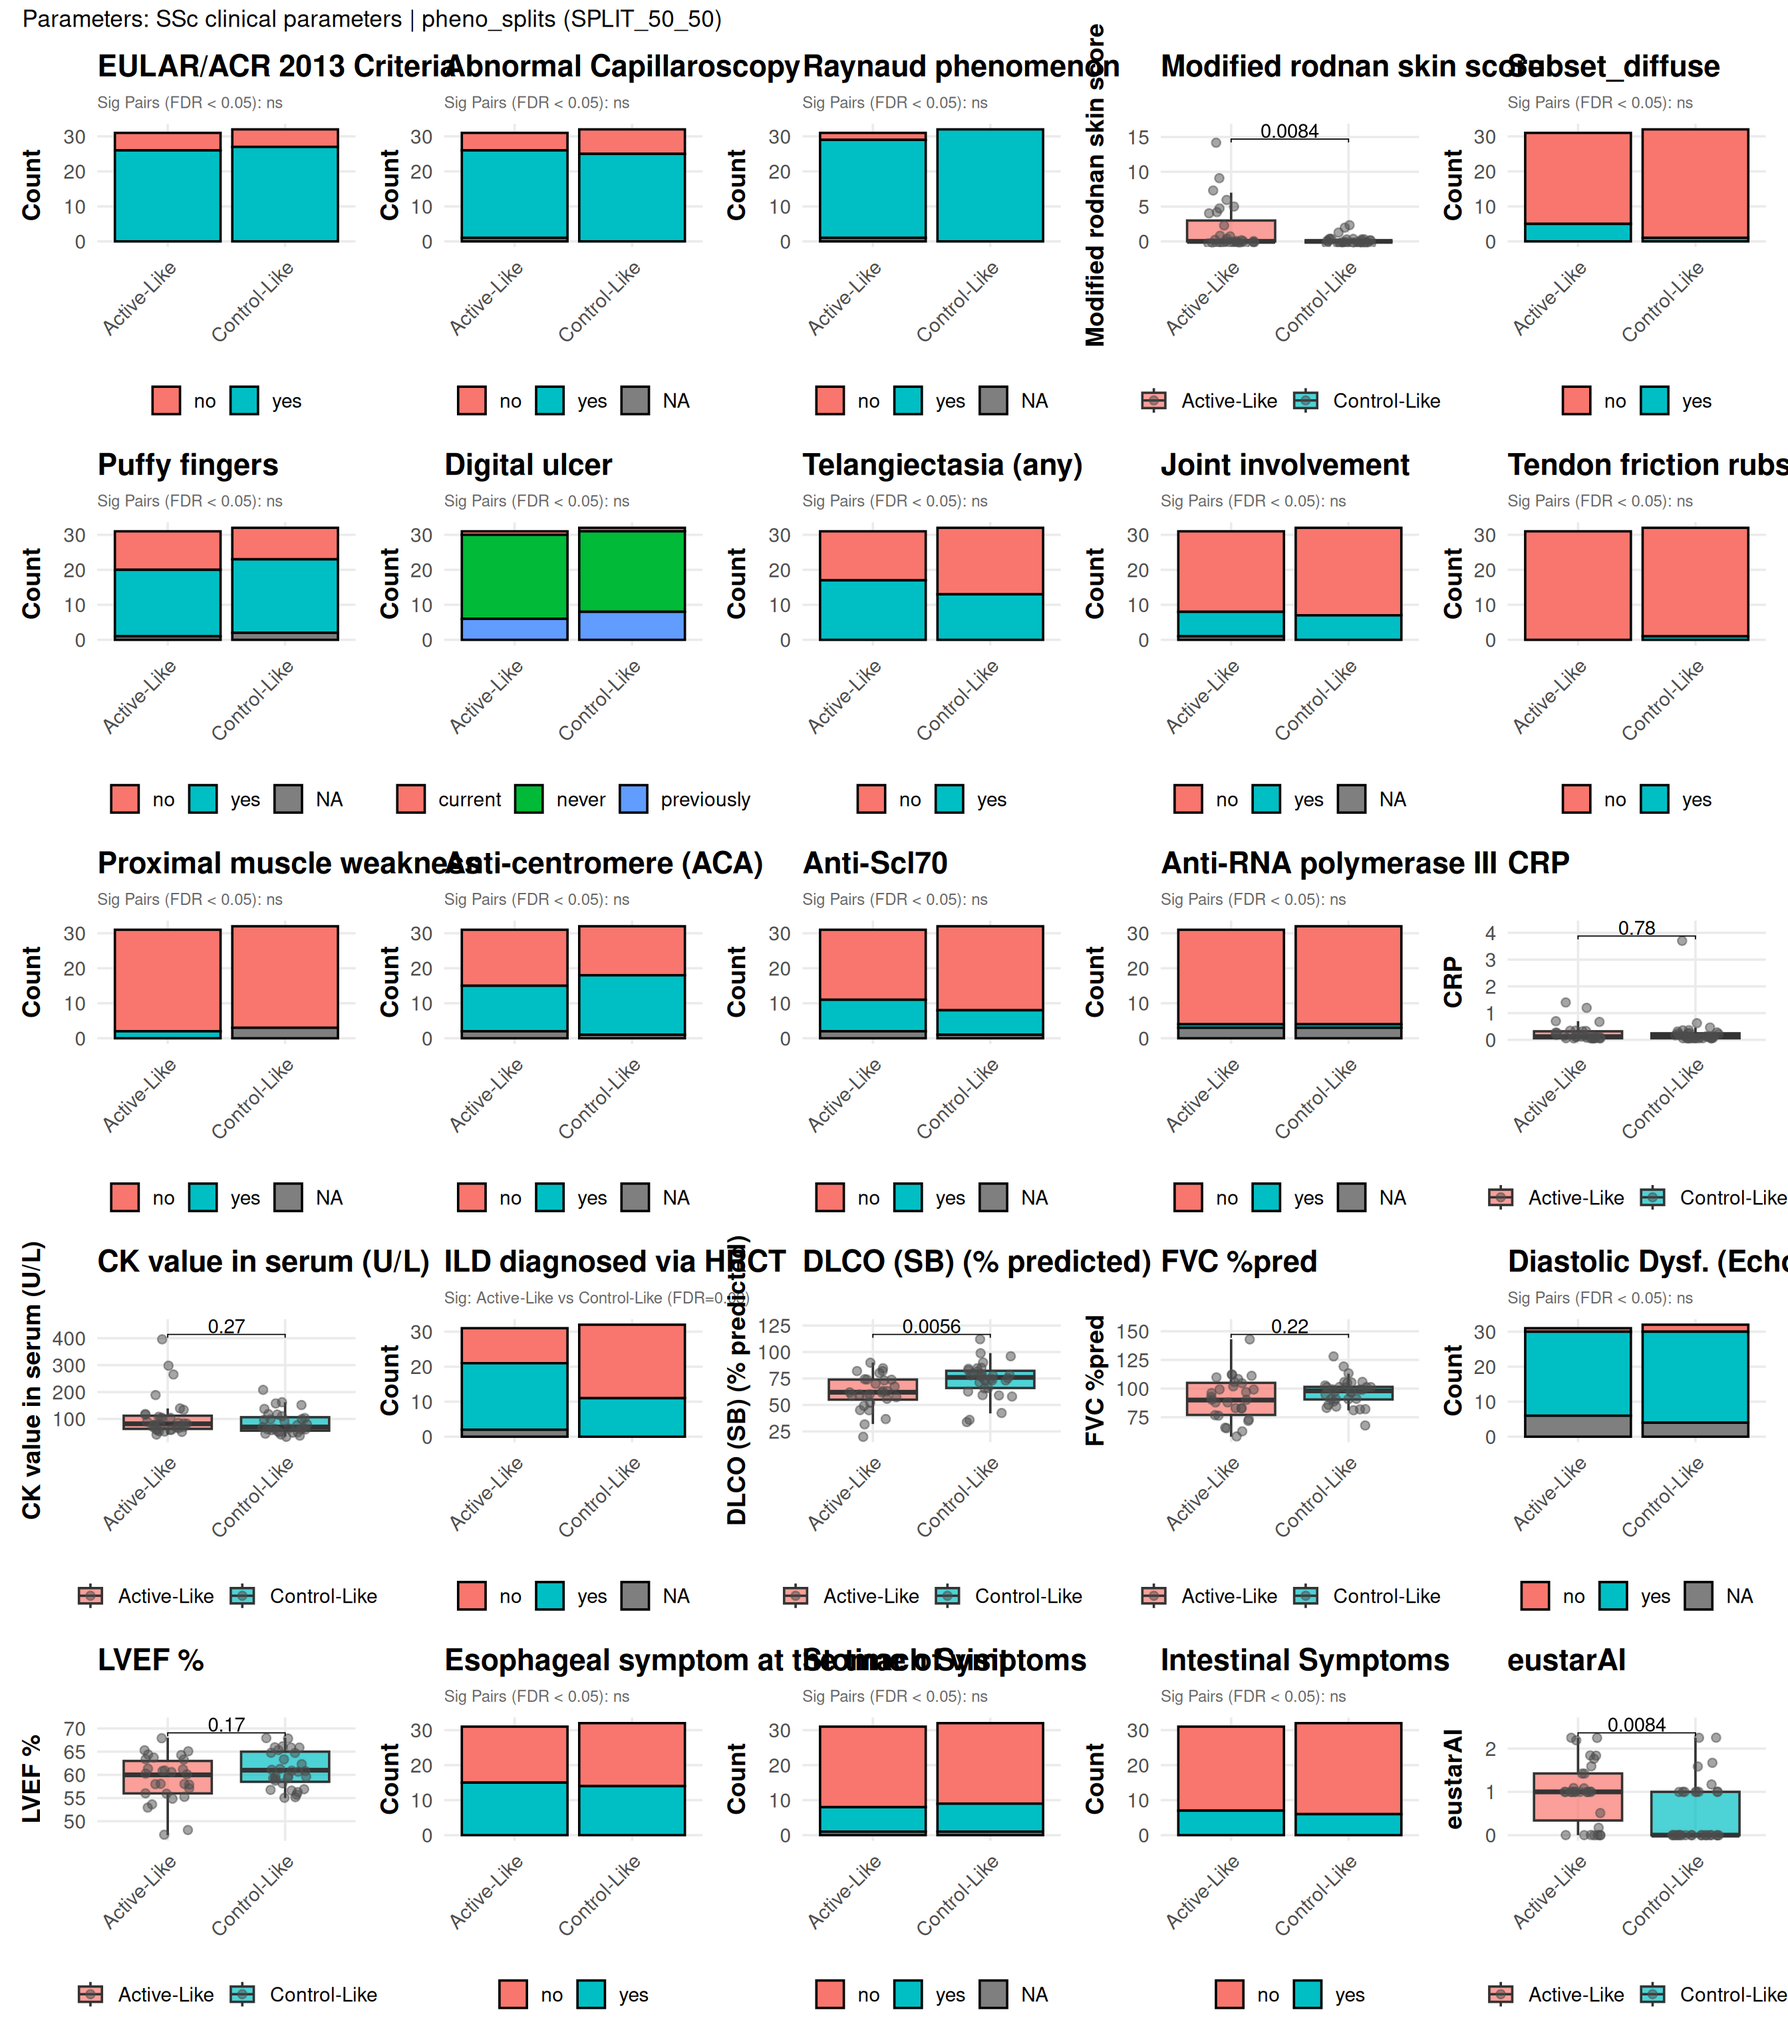
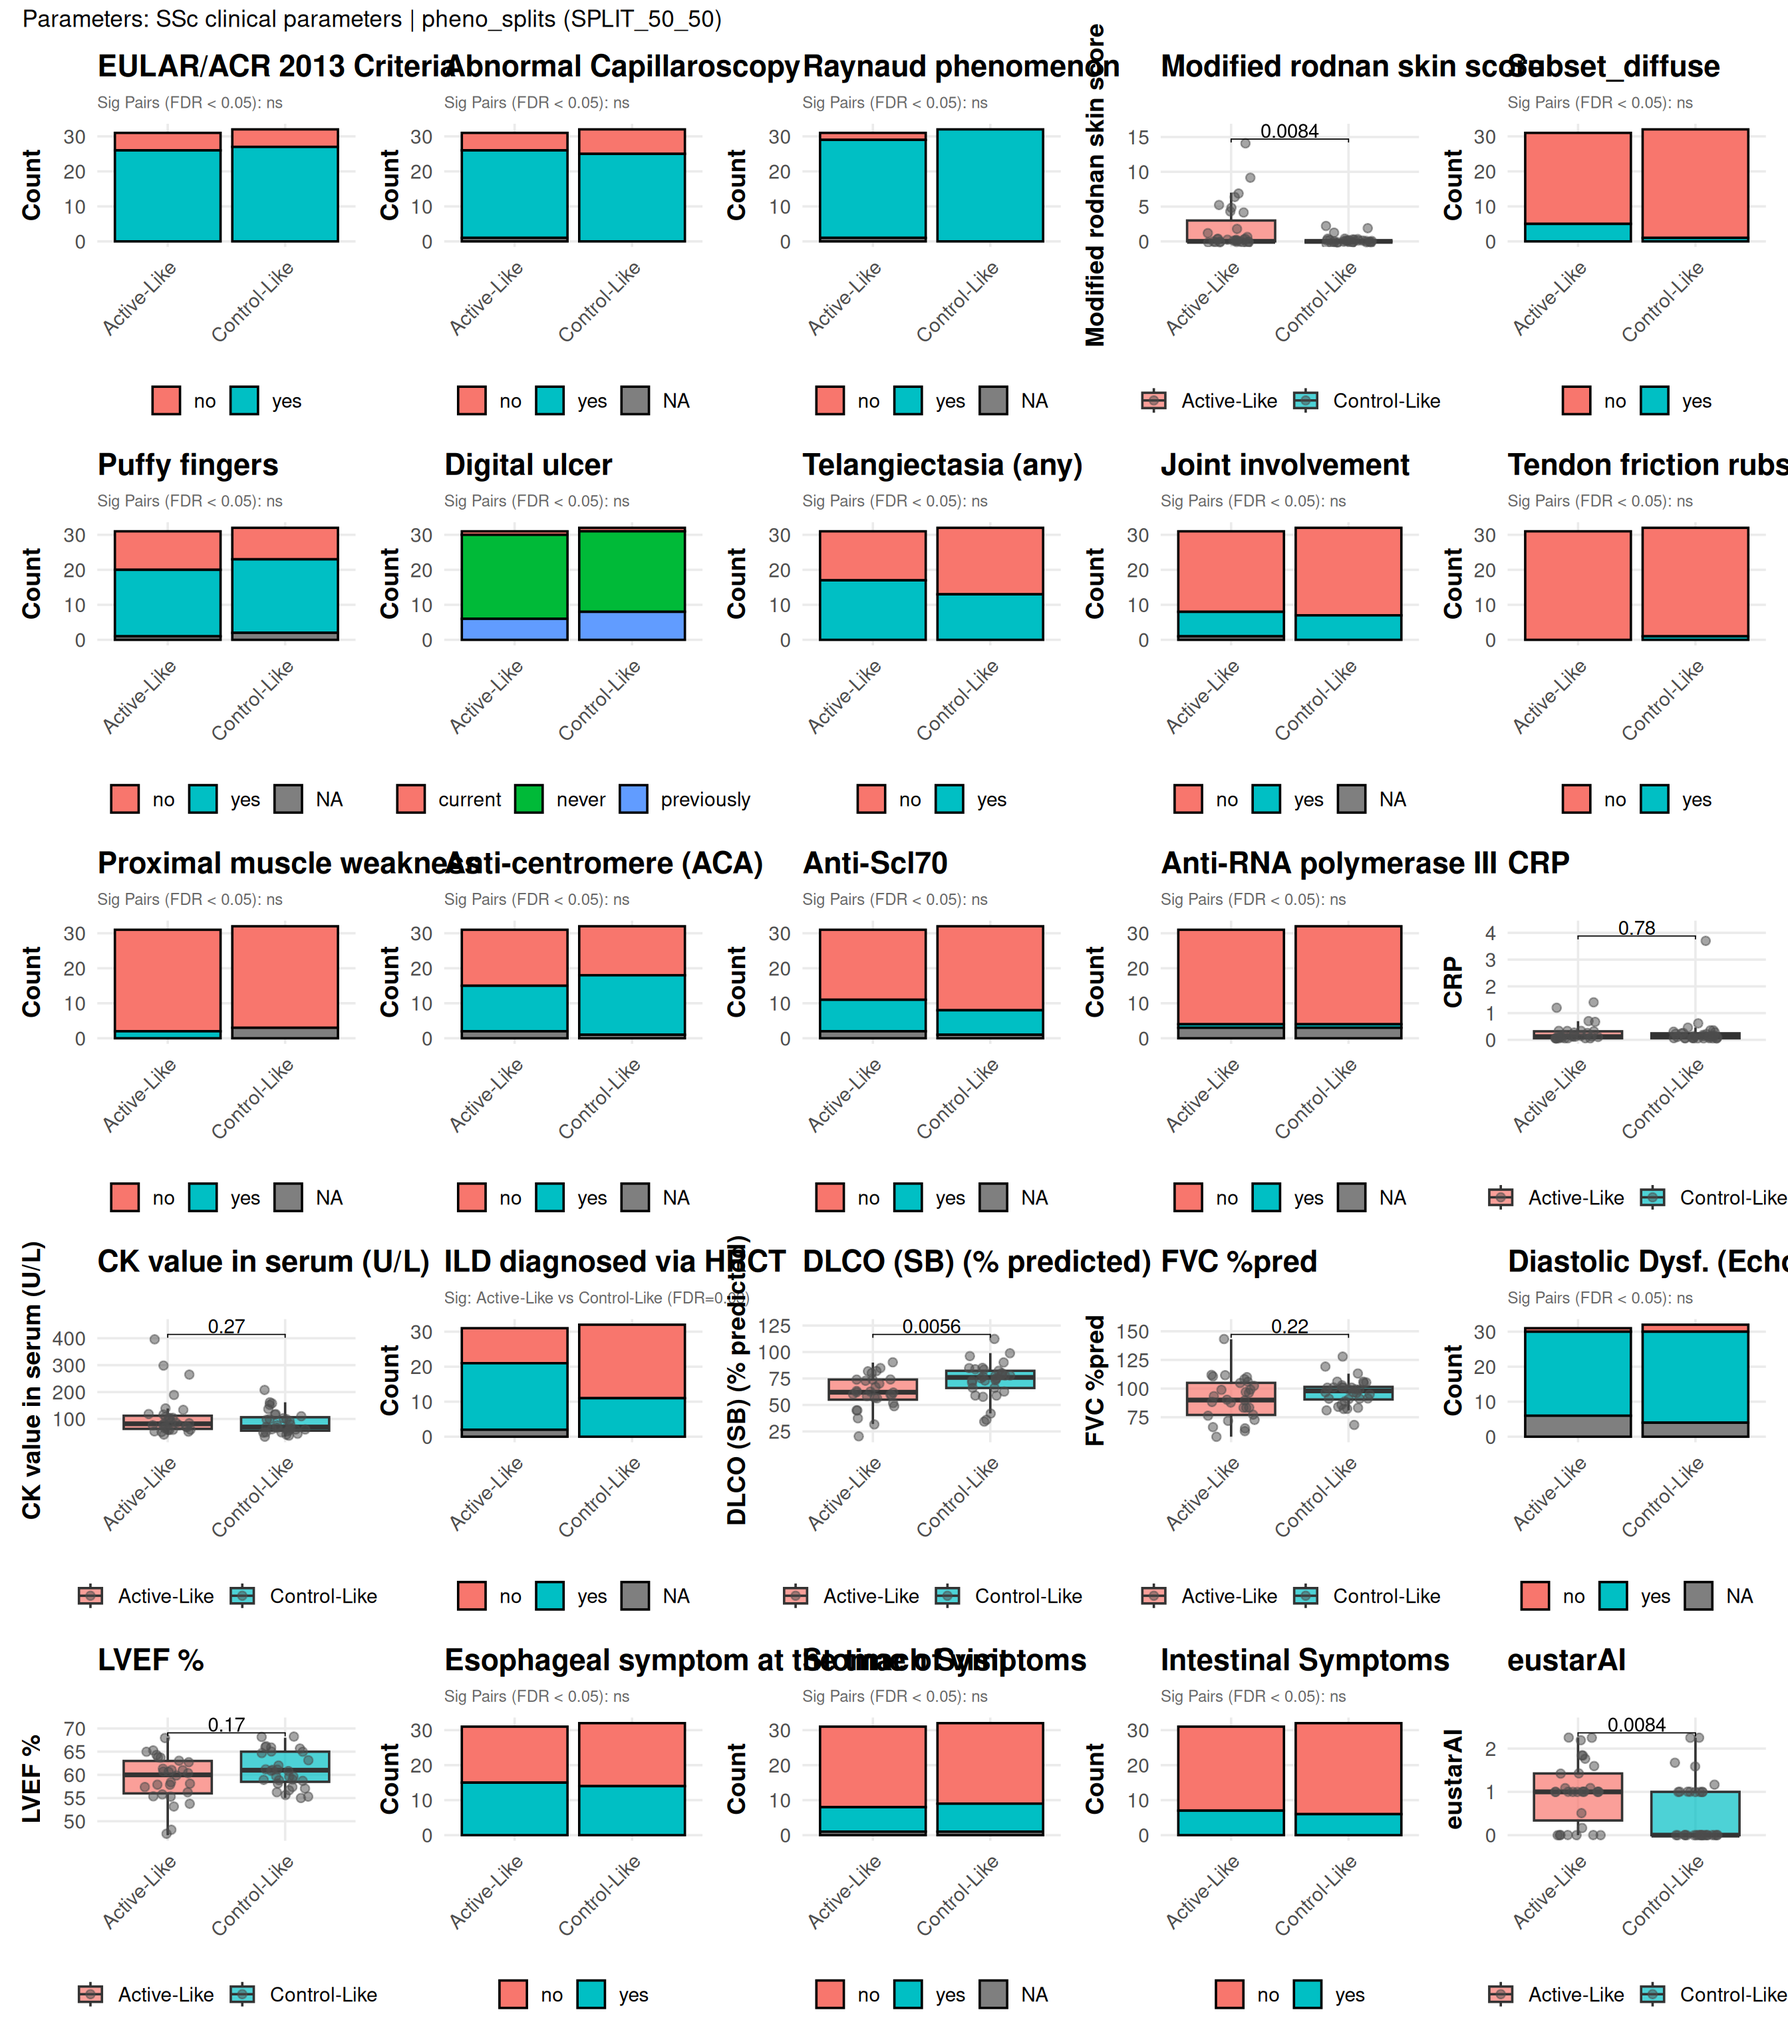
Build site.

diff --git a/docs/03d_proteomics_subgroups.html b/docs/03d_proteomics_subgroups.html
@@ -670,15 +670,15 @@ project makes it easier to run your code on other machines.</p>
 <div class="panel panel-default">
 <div class="panel-heading">
 <p class="panel-title">
-<a data-toggle="collapse" data-parent="#workflowr-checks" href="#strongRepositoryversionstrongahrefhttpsgithubcomalexandergysinSScUSZtree40c259e4947e34af281b3b5303140aef716f5958targetblank40c259ea">
+<a data-toggle="collapse" data-parent="#workflowr-checks" href="#strongRepositoryversionstrongahrefhttpsgithubcomalexandergysinSScUSZtreedf14753758acaeb9afdc77efbf007ad72d7a6344targetblankdf14753a">
 <span class="glyphicon glyphicon-ok text-success"
 aria-hidden="true"></span> <strong>Repository version:</strong>
-<a href="https://github.com/alexander-gysin/SSc-USZ/tree/40c259e4947e34af281b3b5303140aef716f5958" target="_blank">40c259e</a>
+<a href="https://github.com/alexander-gysin/SSc-USZ/tree/df14753758acaeb9afdc77efbf007ad72d7a6344" target="_blank">df14753</a>
 </a>
 </p>
 </div>
 <div
[2 lines of base64/hex data omitted]
 class="panel-collapse collapse">
 <div class="panel-body">
 <p>
@@ -688,7 +688,7 @@ reproducibility.
 </p>
 <p>
 The results in this page were generated with repository version
-<a href="https://github.com/alexander-gysin/SSc-USZ/tree/40c259e4947e34af281b3b5303140aef716f5958" target="_blank">40c259e</a>.
+<a href="https://github.com/alexander-gysin/SSc-USZ/tree/df14753758acaeb9afdc77efbf007ad72d7a6344" target="_blank">df14753</a>.
 See the <em>Past versions</em> tab to see a history of the changes made
 to the R Markdown and HTML files.
 </p>
@@ -737,7 +737,7 @@ Untracked files:
     Untracked:  analysis/05d_sRNA_differential.Rmd
 
 Unstaged changes:
-    Modified:   code/00_config.R
+    Modified:   code/02_proteomics_engines.R
 
 </code></pre>
 <p>
@@ -783,6 +783,40 @@ Message
 </tr>
 </thead>
 <tbody>
+<tr>
+<td>
+Rmd
+</td>
+<td>
+<a href="https://github.com/alexander-gysin/SSc-USZ/blob/df14753758acaeb9afdc77efbf007ad72d7a6344/analysis/03d_proteomics_subgroups.Rmd" target="_blank">df14753</a>
+</td>
+<td>
+alexander-gysin
+</td>
+<td>
+2026-08-16
+</td>
+<td>
+added eustar colors, corrected the description boxes
+</td>
+</tr>
+<tr>
+<td>
+html
+</td>
+<td>
+<a href="https://rawcdn.githack.com/alexander-gysin/SSc-USZ/38402ad7e73ad31188e39d57c4bc9484b78a2ea9/docs/03d_proteomics_subgroups.html" target="_blank">38402ad</a>
+</td>
+<td>
+alexander-gysin
+</td>
+<td>
+2026-08-16
+</td>
+<td>
+Build site.
+</td>
+</tr>
 <tr>
 <td>
 Rmd
@@ -1402,8 +1436,8 @@ pathway_dbs &lt;- list(
 <strong>What this code does:</strong>
 <ul>
 <li>
-Established highly parameterized lists controlling heatmap extraction,
-subgroup quantiles, clinical phenotyping parameters, DEA models, and
+Established parameterized lists controlling heatmap extraction, subgroup
+quantiles, clinical phenotyping parameters, DEA models, and
 cross-contrast algorithms to exactly mirror the architecture of the 03c
 clustering script.
 </li>
@@ -1537,11 +1571,15 @@ flawlessly.
 <strong>What this code does:</strong>
 <ul>
 <li>
-Generates a Master Pi-score Heatmap using the central engine. Extracts
-the unbroken physical leaf order to assign a 0-100 percentile rank
-score. Splits continuous scores by predefined percentiles and the
-maximum Control score, building a unified global_cluster_payloads
-object.
+Generates a Master Pi-score Heatmap using the heatmap engine.
+</li>
+<li>
+Extracts the unbroken physical leaf order to assign a 0-100 percentile
+rank score.
+</li>
+<li>
+Splits continuous scores by predefined percentiles and the maximum
+Control score, building a unified global_cluster_payloads object.
 </li>
 </ul>
 </div>
@@ -1689,8 +1727,10 @@ rather than random noise.
 <ul>
 <li>
 Calculates Log-Odds Ratios and Z-Scores to map the clinical fingerprint
-of the discovered endotypes. Uses nested categories for streamlined
-visual profiling.
+of the discovered endotypes.
+</li>
+<li>
+Uses nested categories for streamlined visual profiling.
 </li>
 </ul>
 </div>
@@ -4555,9 +4595,11 @@ prevent algebraic crashes.
 <strong>What this code does:</strong>
 <ul>
 <li>
-Runs rigorous Differential Expression Analysis directly comparing
-Active-Like vs Control-Like groups across all requested splits.
-Calculates pathway enrichment via GSEA.
+Runs Differential Expression Analysis directly comparing Active-Like vs
+Control-Like groups across all requested splits.
+</li>
+<li>
+Calculates pathway enrichment via GSEA engine.
 </li>
 </ul>
 </div>
@@ -5134,8 +5176,7 @@ of individual proteins regardless of exactly where the boundary
 percentile was drawn.
 </li>
 <li>
-Extracts highly specific and fundamentally shared drivers via data
-tables.
+Extracts specific and shared drivers via data tables.
 </li>
 </ul>
 </div>
@@ -8677,6 +8718,11 @@ run_heatmap_engine &lt;- function(mat, clin, dea_res, title, n_top = 50, split_b
   # Explicit Trap: Age
   if (&quot;Age&quot; %in% valid_vars) {
     col_list[[&quot;Age&quot;]] &lt;- circlize::colorRamp2(c(min(clin_sub$Age, na.rm=T), max(clin_sub$Age, na.rm=T)), c(COLOR_AGE_LOW, COLOR_AGE_HIGH))
+  }
+
+  # Explicit Trap: ACTIVE_AI
+  if (&quot;ACTIVE_AI&quot; %in% valid_vars) {
+    col_list[[&quot;ACTIVE_AI&quot;]] &lt;- get_project_colors(as.character(unique(clin_sub[[&quot;ACTIVE_AI&quot;]])))
   }
 
 
